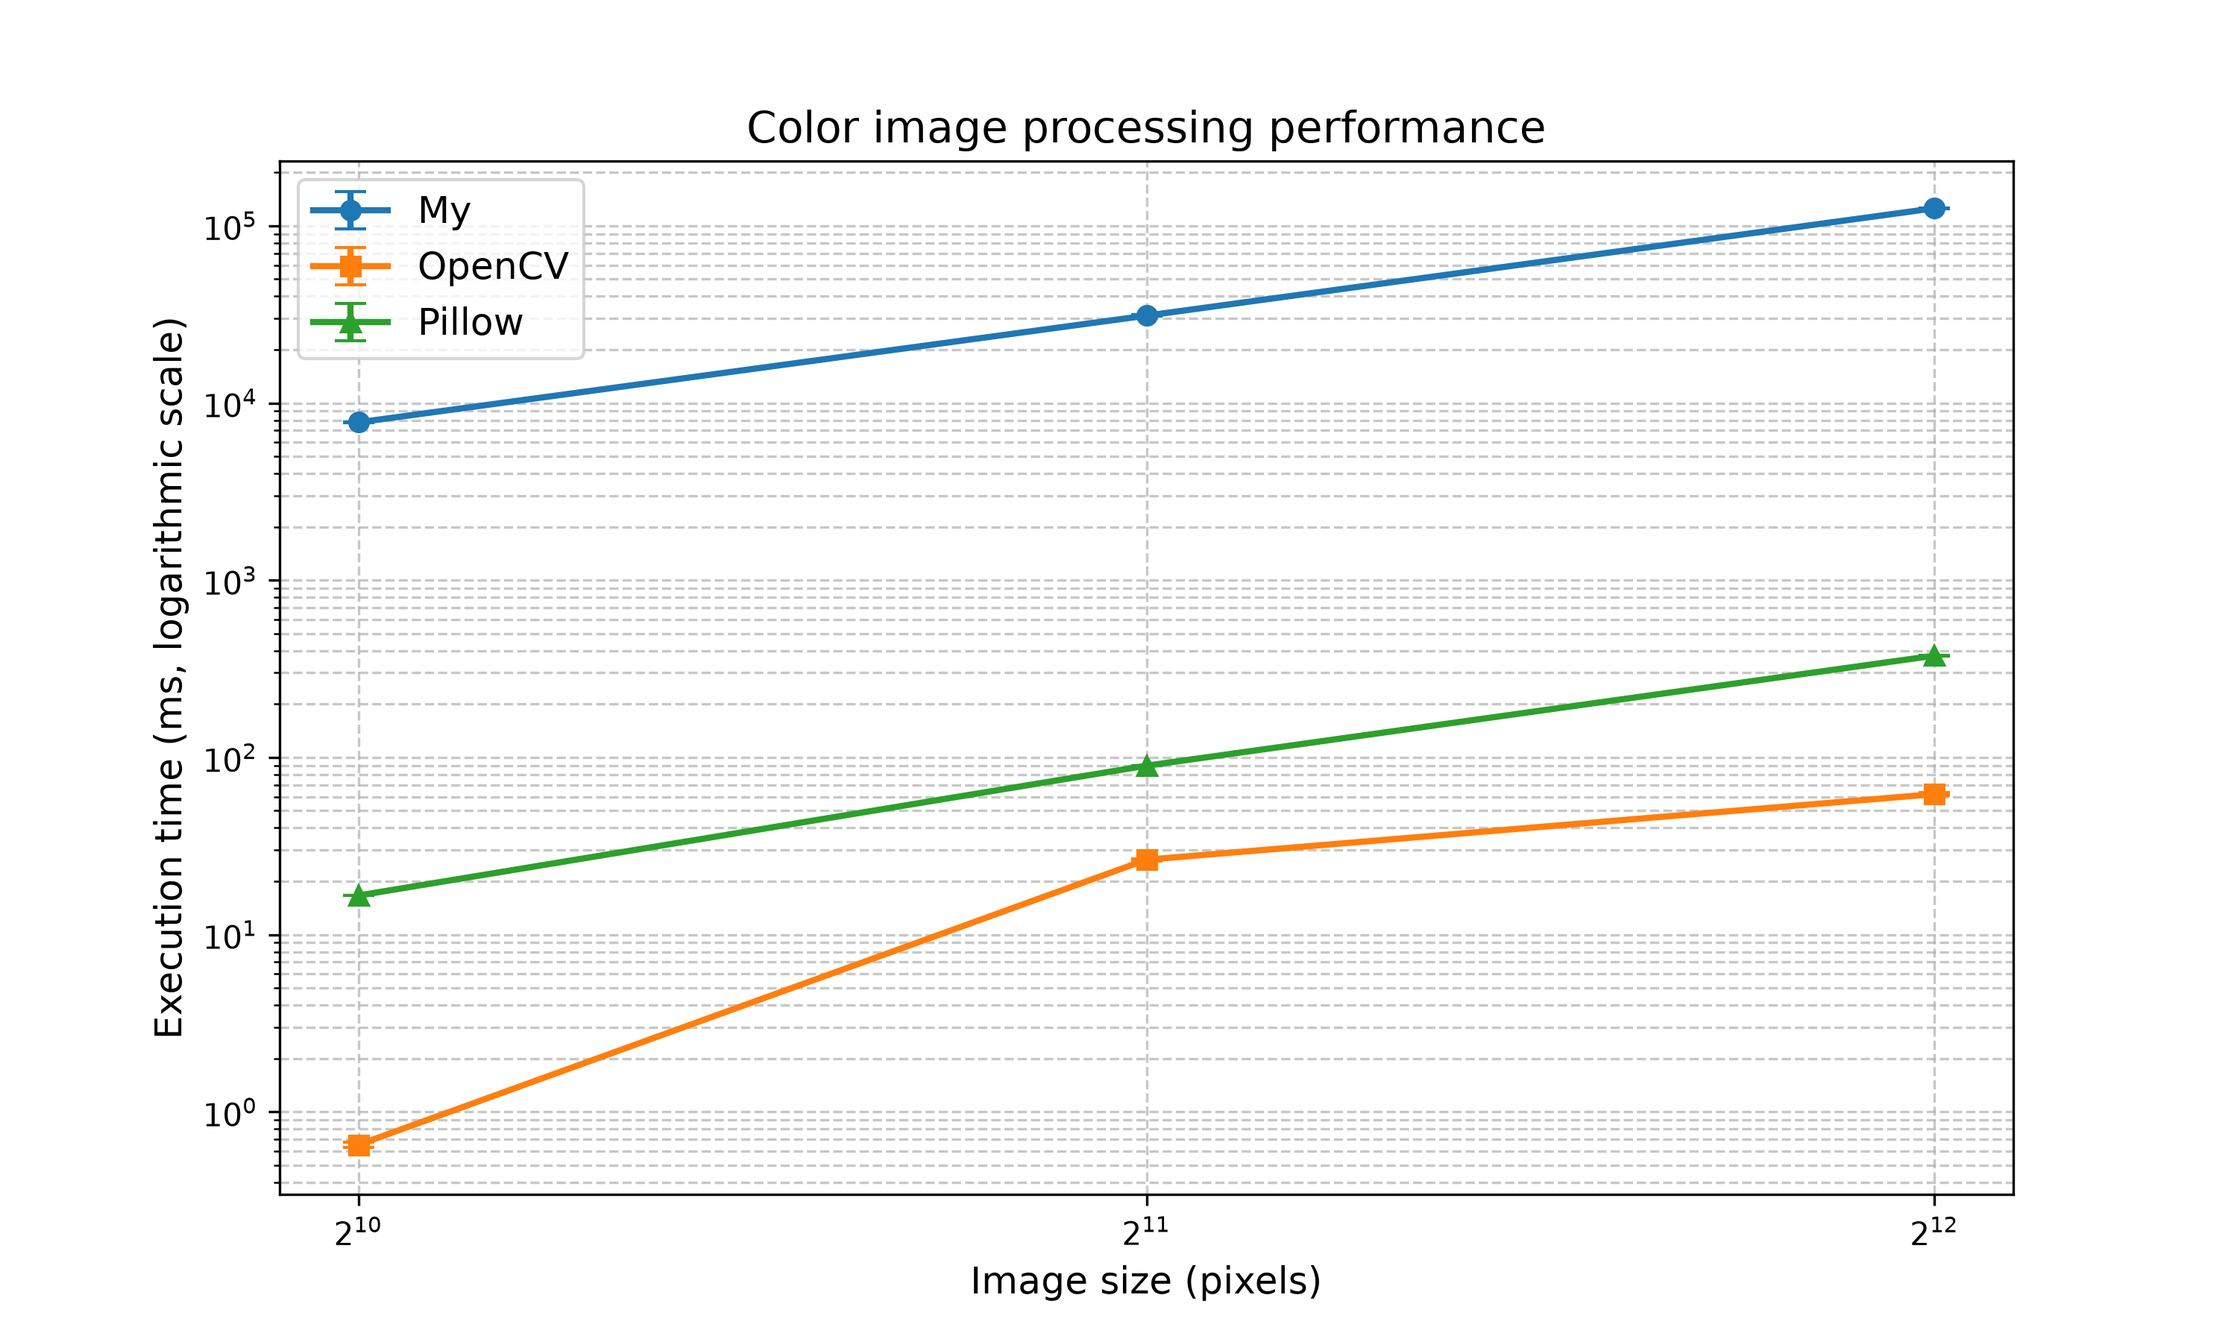
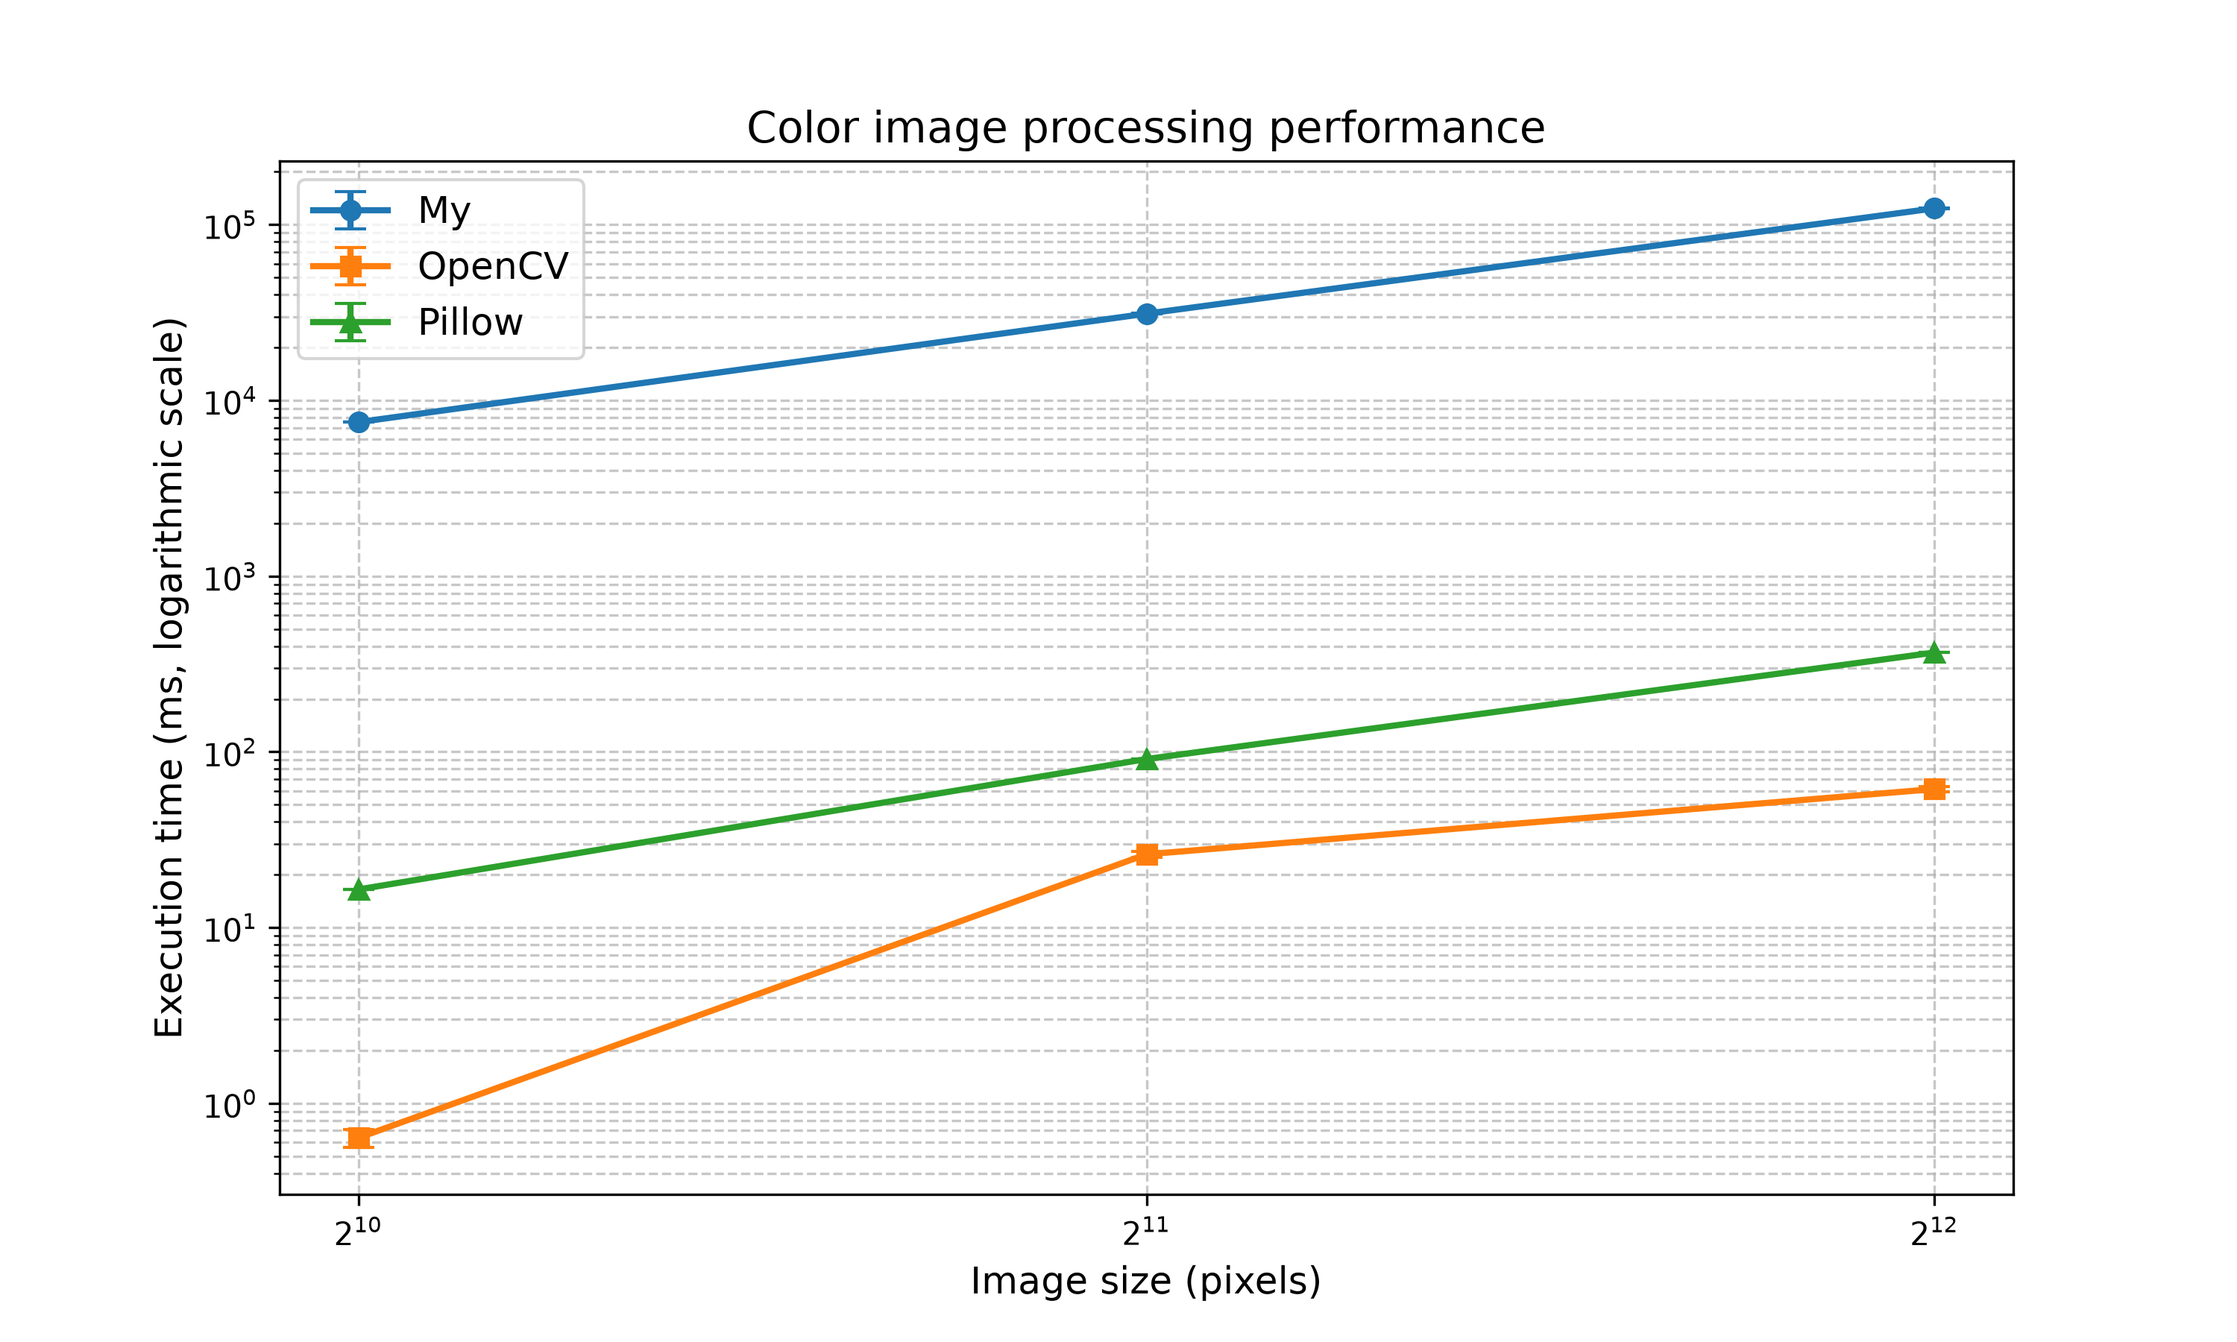
Исправлен запуск бенчмарков через pytest

diff --git a/src/benchmarks/plotter.py b/src/benchmarks/plotter.py
@@ -18,6 +18,72 @@ MARKERS: dict[str, str] = {
 }
 
 
+def setup_plot(
+    title: str,
+    ylabel: str,
+    logarithmic_y: bool = True,
+) -> None:
+    plt.xscale("log", base=2)
+    plt.xticks(SIZES)
+
+    if logarithmic_y:
+        plt.yscale("log")
+
+    plt.xlabel("Image size (pixels)", fontsize=12)
+    plt.ylabel(ylabel, fontsize=12)
+    plt.title(title, fontsize=14)
+    plt.legend(fontsize=12)
+    plt.grid(True, which="both", ls="--", alpha=0.7)
+
+
+def plot_performance(
+    data: list[dict[str, float | int | str | bool]],
+    mode: str,
+    output_file: Path,
+    title: str,
+) -> None:
+    mode_data = [
+        item
+        for item in data
+        if item["mode"] == mode
+    ]
+
+    sizes = [
+        item["size"]
+        for item in mode_data
+    ]
+
+    plt.figure(figsize=(10, 6))
+
+    for key, label in LABELS.items():
+        plt.errorbar(
+            sizes,
+            [
+                item[f"{key}_mean_ms"]
+                for item in mode_data
+            ],
+            yerr=[
+                item[f"{key}_std_ms"]
+                for item in mode_data
+            ],
+            label=label,
+            marker=MARKERS[key],
+            capsize=5,
+            linewidth=2,
+        )
+
+    setup_plot(
+        title,
+        "Execution time (ms, logarithmic scale)",
+    )
+
+    plt.savefig(
+        output_file,
+        dpi=300,
+    )
+    plt.close()
+
+
 def plot_results(data_file: Path) -> None:
     data = json.loads(
         data_file.read_text(encoding="utf-8")
@@ -26,107 +92,19 @@ def plot_results(data_file: Path) -> None:
     output_directory = Path(__file__).parent / "images"
     output_directory.mkdir(exist_ok=True)
 
-    color_data = [
-        item
-        for item in data
-        if item["mode"] == "color"
-    ]
-
-    sizes = [
-        item["size"]
-        for item in color_data
-    ]
-
-    plt.figure(figsize=(10, 6))
-
-    for key, label in LABELS.items():
-        plt.errorbar(
-            sizes,
-            [
-                item[f"{key}_mean_ms"]
-                for item in color_data
-            ],
-            yerr=[
-                item[f"{key}_std_ms"]
-                for item in color_data
-            ],
-            label=label,
-            marker=MARKERS[key],
-            capsize=5,
-            linewidth=2,
-        )
-
-    plt.xscale("log", base=2)
-    plt.yscale("log")
-    plt.xticks(SIZES)
-
-    plt.xlabel("Image size (pixels)", fontsize=12)
-    plt.ylabel("Execution time (ms, logarithmic scale)", fontsize=12)
-    plt.title("Color image processing performance", fontsize=14)
-    plt.legend(fontsize=12)
-    plt.grid(True, which="both", ls="--", alpha=0.7)
-
-    output_file = (
-        output_directory
-        / "color_performance.png"
+    plot_performance(
+        data,
+        "color",
+        output_directory / "color_performance.png",
+        "Color image processing performance",
     )
 
-    plt.savefig(
-        output_file,
-        dpi=300,
+    plot_performance(
+        data,
+        "grayscale",
+        output_directory / "grayscale_performance.png",
+        "Grayscale image processing performance",
     )
-    plt.close()
-
-    grayscale_data = [
-        item
-        for item in data
-        if item["mode"] == "grayscale"
-    ]
-
-    sizes = [
-        item["size"]
-        for item in grayscale_data
-    ]
-
-    plt.figure(figsize=(10, 6))
-
-    for key, label in LABELS.items():
-        plt.errorbar(
-            sizes,
-            [
-                item[f"{key}_mean_ms"]
-                for item in grayscale_data
-            ],
-            yerr=[
-                item[f"{key}_std_ms"]
-                for item in grayscale_data
-            ],
-            label=label,
-            marker=MARKERS[key],
-            capsize=5,
-            linewidth=2,
-        )
-
-    plt.xscale("log", base=2)
-    plt.yscale("log")
-    plt.xticks(SIZES)
-
-    plt.xlabel("Image size (pixels)", fontsize=12)
-    plt.ylabel("Execution time (ms, logarithmic scale)", fontsize=12)
-    plt.title("Grayscale image processing performance", fontsize=14)
-    plt.legend(fontsize=12)
-    plt.grid(True, which="both", ls="--", alpha=0.7)
-
-    output_file = (
-        output_directory
-        / "grayscale_performance.png"
-    )
-
-    plt.savefig(
-        output_file,
-        dpi=300,
-    )
-    plt.close()
 
     plt.figure(figsize=(10, 6))
 
@@ -164,17 +142,15 @@ def plot_results(data_file: Path) -> None:
             label=f"My / Pillow ({mode})",
         )
 
-    plt.xscale("log", base=2)
-    plt.xticks(SIZES)
-
-    plt.xlabel("Image size (pixels)", fontsize=12)
-    plt.ylabel("Execution time ratio", fontsize=12)
-    plt.title("My implementation compared with OpenCV and Pillow", fontsize=14)
-    plt.legend(fontsize=12)
-    plt.grid(True, which="both", ls="--", alpha=0.7)
+    setup_plot(
+        "My implementation compared with OpenCV and Pillow",
+        "Execution time ratio",
+        logarithmic_y=False,
+    )
 
     output_file = (
-        output_directory / "speedup.png"
+        output_directory
+        / "speedup.png"
     )
 
     plt.savefig(

diff --git a/src/benchmarks/measure.py b/src/benchmarks/measure.py
@@ -87,40 +87,6 @@ def run_pillow(
     ) / 255.0
 
 
-def run_benchmark() -> pathlib.Path:
-    import pytest
-
-    output = (
-        pathlib.Path(__file__).parent
-        / "data"
-        / "benchmark_raw.json"
-    )
-
-    result = pytest.main(
-        [
-            str(
-                pathlib.Path(__file__).parent
-                / "test_benchmark.py"
-            ),
-            "--benchmark-json",
-            str(output),
-            "--benchmark-min-rounds=10",
-            "--benchmark-max-time=1",
-            "--benchmark-precision=0.02",
-            "--benchmark-confidence=0.95",
-            "--benchmark-warmup=on",
-            "--benchmark-disable-gc",
-        ]
-    )
-
-    if result != 0:
-        raise RuntimeError(
-            "Benchmark execution failed"
-        )
-
-    return output
-
-
 def make_results(
     benchmark_file: pathlib.Path,
 ) -> list[dict[str, float | int | str | bool]]:
@@ -241,11 +207,11 @@ def make_results(
     return results
 
 
-def run_experiments() -> list[
+def run_experiments(
+    benchmark_file: pathlib.Path,
+) -> list[
     dict[str, float | int | str | bool]
 ]:
-    benchmark_file = run_benchmark()
-
     return make_results(
         benchmark_file
     )

diff --git a/src/benchmarks/execute.py b/src/benchmarks/execute.py
@@ -1,9 +1,17 @@
+from pathlib import Path
+
 from .measure import run_experiments, save_results
 from .plotter import plot_results
 
 
 def main() -> None:
-    results = run_experiments()
+    benchmark_file = (
+        Path(__file__).parent
+        / "data"
+        / "benchmark_raw.json"
+    )
+    
+    results = run_experiments(benchmark_file)
     data_file = save_results(results)
     plot_results(data_file)
 

diff --git a/README.md b/README.md
@@ -1,11 +1,11 @@
 # img-conv
 Реализация свёртки изображений на Python. Сравнение производительности с OpenCV и Pillow.
 
-# Эксперименты
+## Эксперименты
 
 Использовались ядро box_blur и тип обработки краёв constant. Тестирование проводилось для изображений размером 1024×1024, 2048×2048 и 4096×4096, отдельно для цветных изображений и изображений в оттенках серого.
 
-Тестовые изображения генерировались с помощью NumPy и содержали случайные значения пикселей из равномерного распределения в диапазоне от 0 до 1. Для каждого варианта выполнялось 10–11 измерительных раундов с предварительным прогревом. Тестирование проводилось с использованием pytest-benchmark.
+Тестовые изображения генерировались с помощью NumPy и содержали случайные значения пикселей из равномерного распределения в диапазоне от 0 до 1. Тестирование проводилось с использованием pytest-benchmark.
 
 Измерения проводились на системе со следующими характеристиками:
 
@@ -15,10 +15,44 @@
 
 Измерения выполнялись в режиме performance. Пользовательские приложения были отключены для уменьшения влияния фоновых процессов.
 
+## Запуск экспериментов
+
+Бенчмарки запускаются с помощью pytest. Полученные результаты сохраняются в JSON-файл:
+
+pytest src/benchmarks/test_benchmark.py \
+  --benchmark-warmup=on \
+  --benchmark-json=src/benchmarks/data/benchmark_raw.json
+
+В команде используются два параметра pytest-benchmark:
+
+--benchmark-warmup=on включает предварительный прогрев перед измерением. Прогрев позволяет выполнить тестируемую функцию до начала измерения и уменьшить влияние начальных затрат выполнения.
+--benchmark-json=src/benchmarks/data/benchmark_raw.json сохраняет результаты измерений в JSON-файл. Этот параметр не изменяет само измерение, нужен для последующей обработки результатов.
+
+## Обработка результатов и построение графиков
+
+После завершения бенчмарков результаты из JSON обрабатываются с помощью:
+
+python -m src.benchmarks.execute
+
+Скрипт execute.py читает файл:
+
+src/benchmarks/data/benchmark_raw.json
+
+После обработки создаются:
+
+src/benchmarks/data/results.json
+src/benchmarks/images/color_performance.png
+src/benchmarks/images/grayscale_performance.png
+src/benchmarks/images/speedup.png
+
+В results.json сохраняются среднее время выполнения, стандартное отклонение, отношение времени авторской реализации к OpenCV и Pillow, а также результаты проверки статистической значимости различий.
+
+Графики строятся на основе уже обработанных данных из results.json. Они показывают время выполнения свёртки для цветных изображений(color_performance.png) и изображений в оттенках серого(grayscale_performance.png), а также отношение времени выполнения авторской реализации ко времени выполнения библиотечных реализаций(speedup.png).
+
 ## Выводы
 
 Время выполнения всех трёх реализаций имеет линейную зависимость от количества пикселей при фиксированном размере ядра. При увеличении стороны изображения в два раза количество пикселей увеличивается в четыре раза, и время обработки также увеличивается примерно в четыре раза.
 
-Авторская реализация значительно медленнее библиотечных реализаций. По результатам экспериментов её время выполнения больше времени OpenCV примерно в 1 175–28 770 раз, а Pillow примерно в 335–532 раза.
+Авторская реализация значительно медленнее библиотечных реализаций. По результатам экспериментов её время выполнения больше времени OpenCV примерно в 1194-29800 раз, а Pillow примерно в 337-537 раза.
 
 Различие связано с реализацией вычислений. В авторской реализации свёртка выполняется с помощью трёх вложенных циклов на Python. OpenCV и Pillow используют оптимизированные низкоуровневые реализации, поэтому обработка выполняется значительно быстрее.
